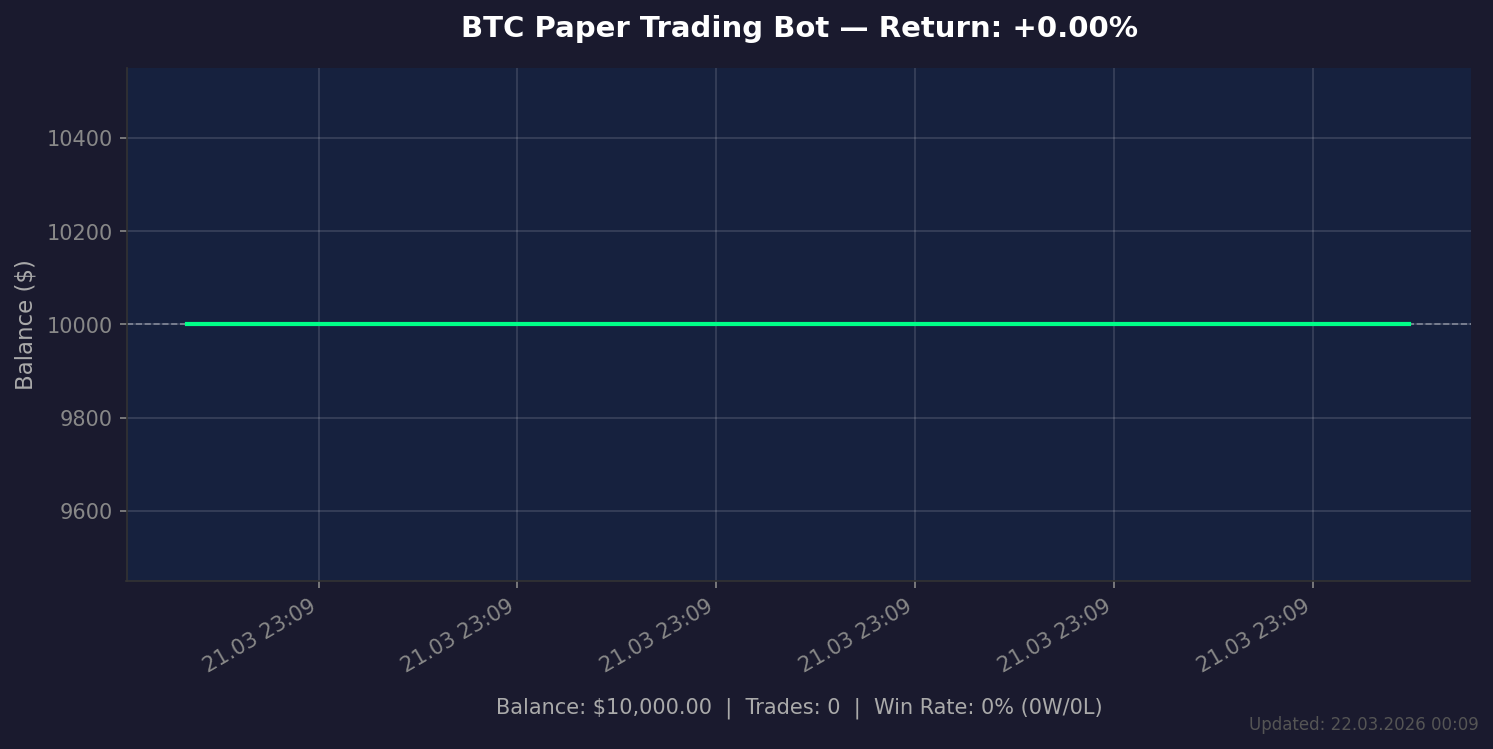
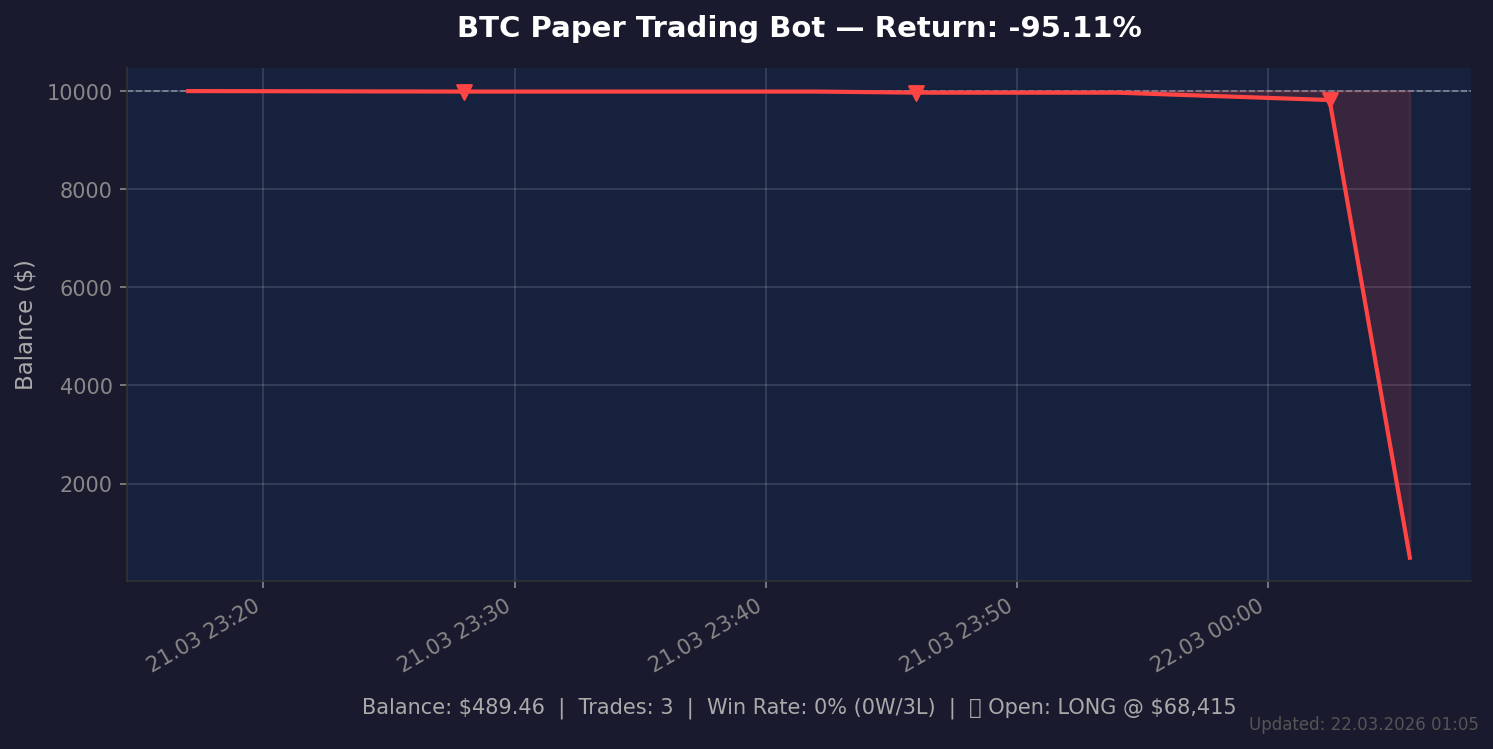
fix: add EMA50 trend filter — only LONG in uptrend
- EMA50 as macro trend filter
- BUY signals blocked when price < EMA50 (downtrend)
- SELL/exit signals always allowed
- Prevents buying into a falling market

diff --git a/strategy.py b/strategy.py
@@ -62,10 +62,17 @@ class EMAcrossRSI:
         self.rsi_os = rsi_os
 
     def evaluate(self, df: pd.DataFrame) -> TradeSignal:
-        if len(df) < max(self.slow, 26) + 10:
+        if len(df) < max(self.slow, 50) + 10:
             return TradeSignal(Signal.HOLD, 0, "Not enough data")
 
         close = df["close"]
+
+        # Trend filter: EMA50 determines macro trend
+        ema_trend = ema(close, 50)
+        cur_trend = ema_trend.iloc[-1]
+        cur_price_val = close.iloc[-1]
+        is_uptrend = cur_price_val > cur_trend
+        is_downtrend = cur_price_val < cur_trend
 
         # Indicators
         ema_fast = ema(close, self.fast)
@@ -151,14 +158,23 @@ class EMAcrossRSI:
             sell_signals += 1
             sell_reasons.append("Near BB upper")
 
-        # Decision — require strong confluence
+        # Decision — require strong confluence + trend alignment
         from config import MIN_SIGNAL_SCORE
-        if buy_signals >= MIN_SIGNAL_SCORE and buy_signals > sell_signals + 1:
+
+        # Only go LONG in uptrend, only SELL/exit in downtrend
+        if buy_signals >= MIN_SIGNAL_SCORE and buy_signals > sell_signals + 1 and is_uptrend:
             confidence = min(buy_signals / 7, 1.0)
-            return TradeSignal(Signal.BUY, confidence, " + ".join(reasons))
+            return TradeSignal(Signal.BUY, confidence,
+                               " + ".join(reasons) + " [Uptrend ✅]")
         elif sell_signals >= MIN_SIGNAL_SCORE and sell_signals > buy_signals + 1:
             confidence = min(sell_signals / 7, 1.0)
-            return TradeSignal(Signal.SELL, confidence, " + ".join(sell_reasons))
+            return TradeSignal(Signal.SELL, confidence,
+                               " + ".join(sell_reasons) +
+                               (" [Downtrend ⚠]" if is_downtrend else ""))
+        elif is_downtrend and buy_signals >= MIN_SIGNAL_SCORE:
+            # Would buy but trend is against us — skip
+            return TradeSignal(Signal.HOLD, 0,
+                               f"Buy signal blocked by downtrend (price < EMA50)")
 
         return TradeSignal(Signal.HOLD, 0,
                            f"No clear signal (buy={buy_signals}, sell={sell_signals})")

diff --git a/chart.py b/chart.py
@@ -85,8 +85,8 @@ def generate_chart(output_path="performance.png"):
     if position:
         status_text += f'  |  📊 Open: LONG @ ${position["entry_price"]:,.0f}'
 
-    ax.set_xlabel(status_text, color='#aaaaaa', fontsize=10, labelpad=10)
-    ax.set_ylabel('Balance ($)', color='#aaaaaa', fontsize=11)
+    ax.set_xlabel(status_text.replace('$', r'\$'), color='#aaaaaa', fontsize=10, labelpad=10)
+    ax.set_ylabel(r'Balance (\$)', color='#aaaaaa', fontsize=11)
 
     # Formatting
     ax.tick_params(colors='#888888')
